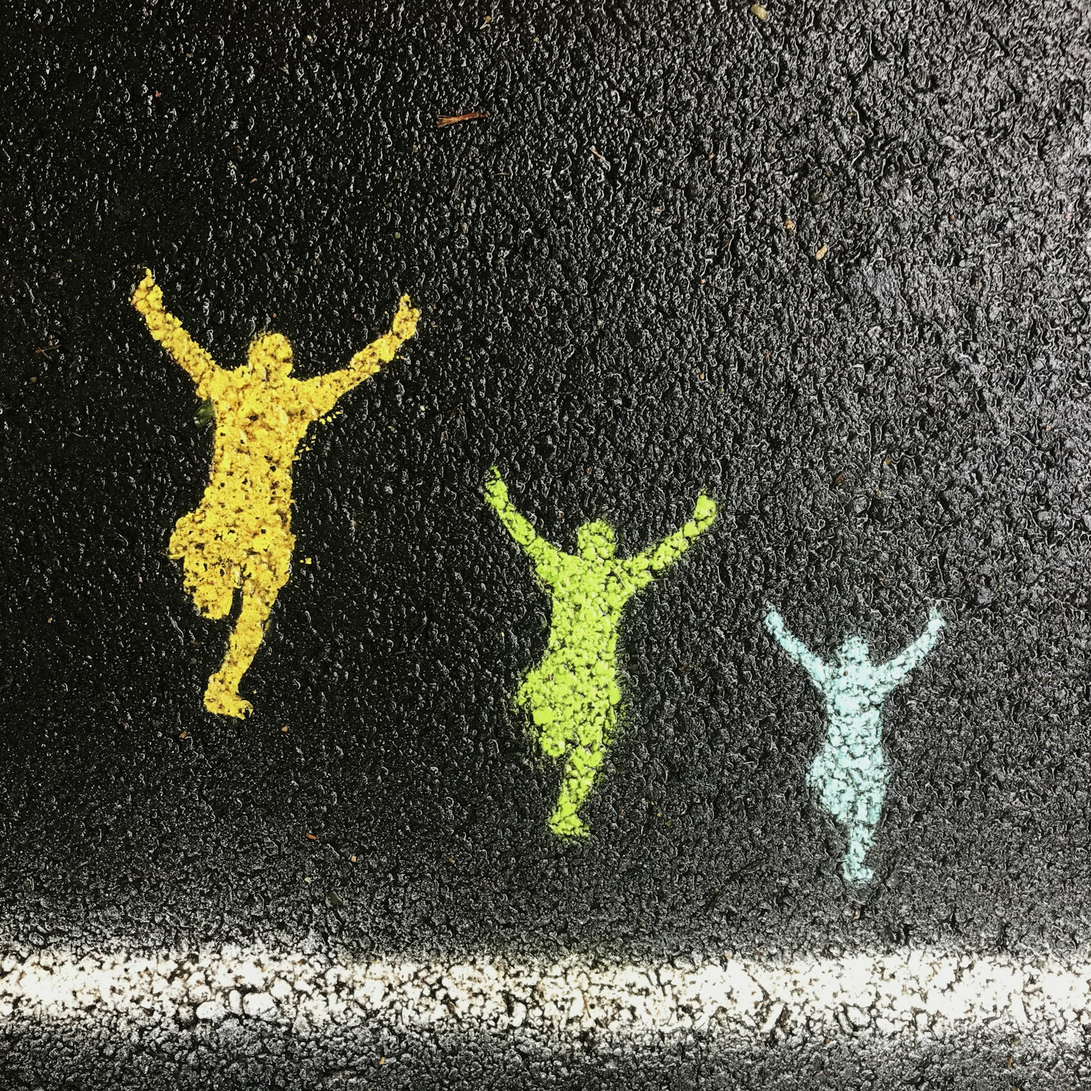
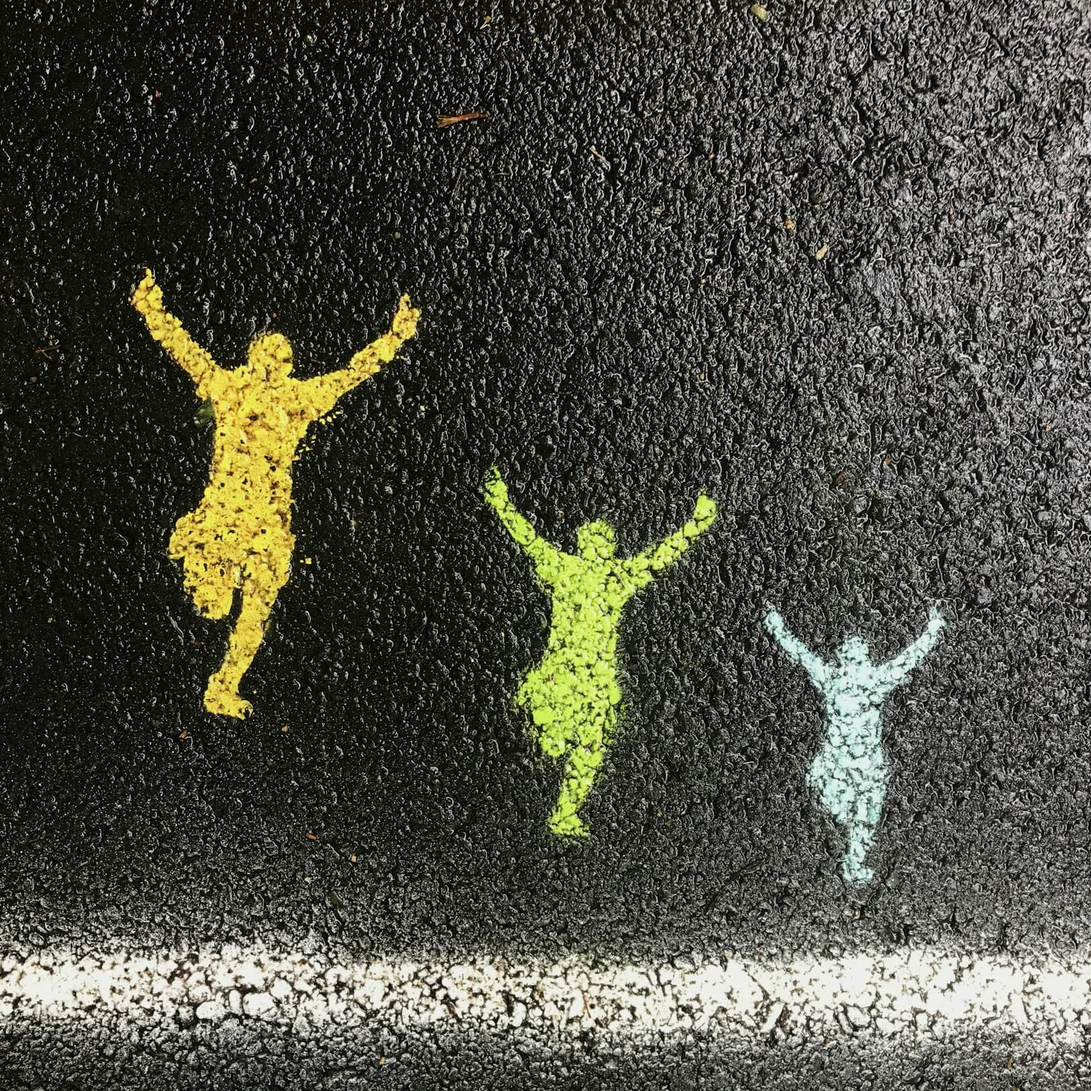
feat: 이미지 최적화

diff --git a/src/features/auth/routes/Login.tsx b/src/features/auth/routes/Login.tsx
@@ -14,7 +14,7 @@ const Login = () => {
 
   return (
     <div className="flex h-screen items-center justify-center">
-      <div className="relative flex flex-col space-y-4 text-center">
+      <div className="relative flex flex-col text-center">
         <div
           className="h-[812px] w-[375px] bg-cover bg-center"
           style={{ backgroundImage: `url(${randomImage})` }}
